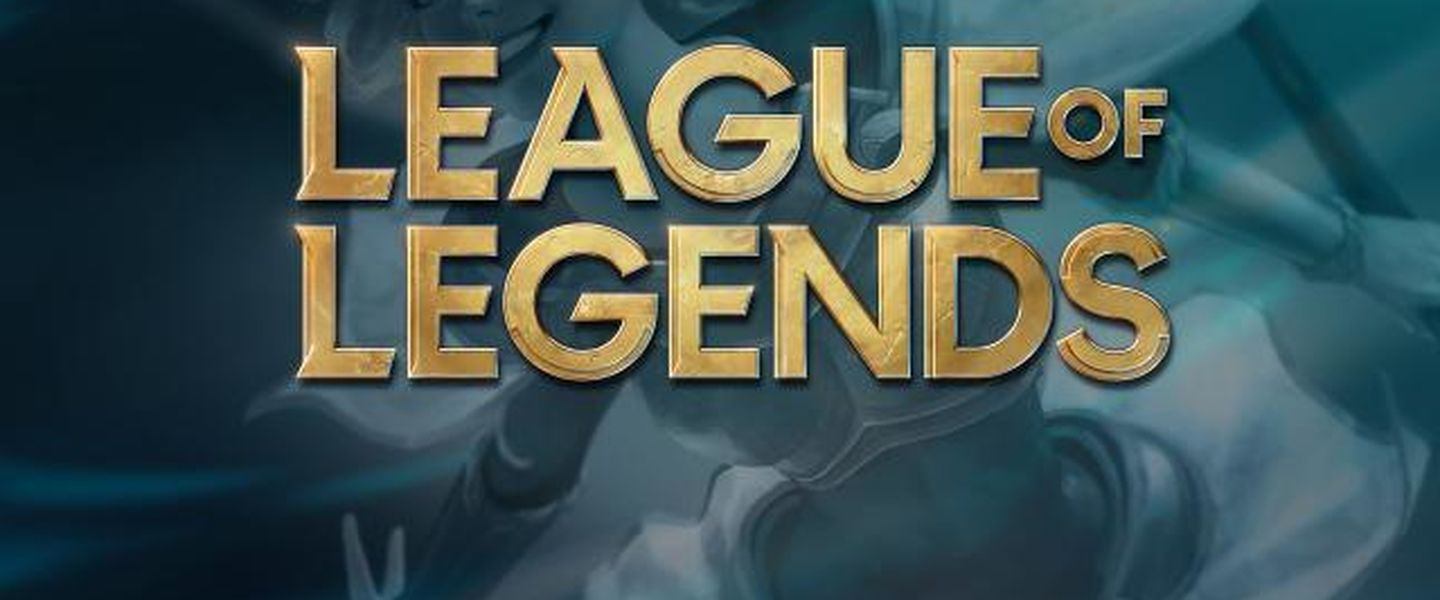
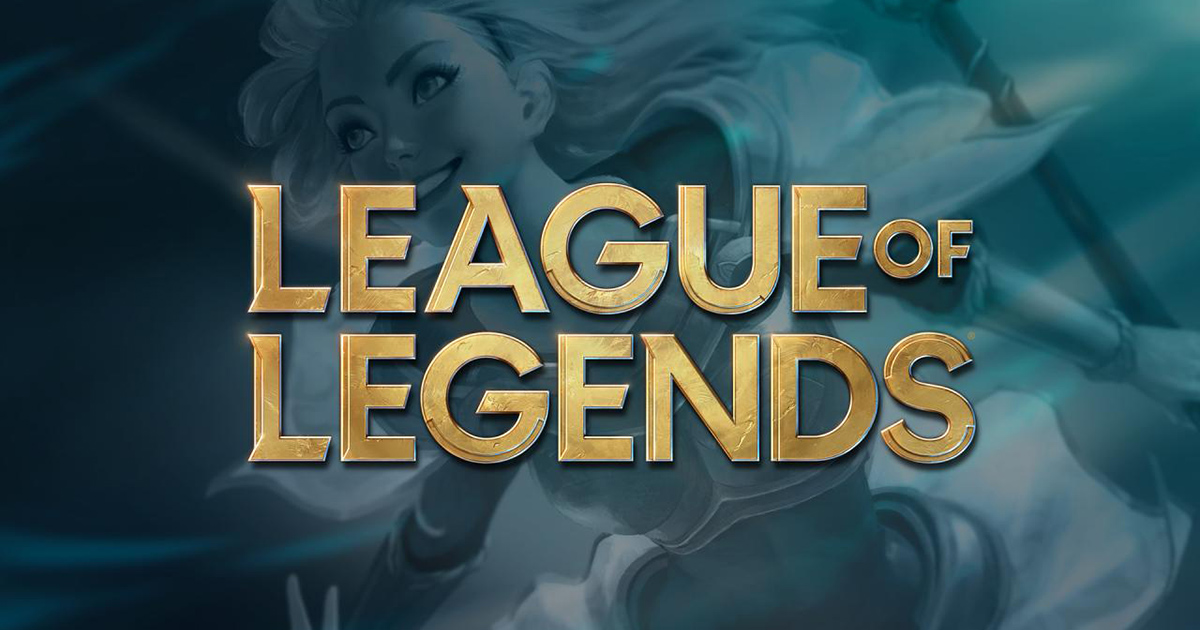
carrousel agregado

diff --git a/index.html b/index.html
@@ -1,88 +1,210 @@
 <!DOCTYPE html>
 <html lang="en">
-<head>
-    <meta charset="UTF-8">
-    <meta http-equiv="X-UA-Compatible" content="IE=edge">
-    <meta name="viewport" content="width=device-width, initial-scale=1.0">
-    <link href="https://cdn.jsdelivr.net/npm/bootstrap@5.1.3/dist/css/bootstrap.min.css" rel="stylesheet" integrity="sha384-1BmE4kWBq78iYhFldvKuhfTAU6auU8tT94WrHftjDbrCEXSU1oBoqyl2QvZ6jIW3" crossorigin="anonymous">
-    <link rel="stylesheet" href="style.css">
+  <head>
+    <meta charset="UTF-8" />
+    <meta http-equiv="X-UA-Compatible" content="IE=edge" />
+    <meta name="viewport" content="width=device-width, initial-scale=1.0" />
+    <link 
+      href="https://cdn.jsdelivr.net/npm/bootstrap@5.1.3/dist/css/bootstrap.min.css"
+      rel="stylesheet"
+      integrity="sha384-1BmE4kWBq78iYhFldvKuhfTAU6auU8tT94WrHftjDbrCEXSU1oBoqyl2QvZ6jIW3"
+      crossorigin="anonymous"
+    />
+    <link rel="stylesheet" href="style.css" />
     <title>Dos Reviews punto com</title>
-</head>
+  </head>
 
-<body>
-    <header class="header"> 
-        <div class="headerLogo">
-            <a href="/index.html"><img class="logo" src="images/logo.png" alt="joystick" ></a>
-        </div>
-        <div class="headerNav">
-            <nav>
-                <ul class="ulNav">
-                    <li class="headerLi"> <a href="index.html">Inicio</a> </li>
-                    <li class="headerLi"> <a href="reviews.html"> Reviews</a> </li>
-                    <li class="headerLi"> <a href="wallpapers.html">Wallpapers</a>  </li>
-                    <li class="headerLi"> <a href="sobre-nosotros.html">Sobre Nosotros </a>  </li>
-                    <li class="headerLi"> <a href="contacto.html"> Contacto</a> </li>
-                </ul> 
-            </nav>
-        </div>
+  <body>
+    <header class="header">
+      <div class="headerLogo">
+        <a href="/index.html"
+          ><img class="logo" src="images/logo.png" alt="joystick"
+        /></a>
+      </div>
+      <div class="headerNav">
+        <nav>
+          <ul class="ulNav">
+            <li class="headerLi"><a href="index.html">Inicio</a></li>
+            <li class="headerLi"><a href="reviews.html"> Reviews</a></li>
+            <li class="headerLi"><a href="wallpapers.html">Wallpapers</a></li>
+            <li class="headerLi">
+              <a href="sobre-nosotros.html">Sobre Nosotros </a>
+            </li>
+            <li class="headerLi"><a href="contacto.html"> Contacto</a></li>
+          </ul>
+        </nav>
+      </div>
     </header>
     <main>
-        <div class="main">
-            <div class="carru"> <!-- la idea es a futuro hacer un carrusel en el cual se muestren imagenes de juegos a modo de publicidad random-->
-                <div>
-                     <img class="imgMain"  src="images/godgowar/tapa.jfif" alt="god of war portada">
-                     <p>God Of War</p>
-                </div>
-                <div>
-                     <img class="imgMain"  src="images/mortalkombat/mortal.jpeg" alt="Mortal Kombat XI portada">
-                     <p>Mortal Kombat XI</p>
-                </div>    
-                <div>
-                     <img class="imgMain"  src="images/lol/leagueof.jpg" alt="league of legends portada">
-                     <p>League of Legends</p>
-                </div>
+      <div class="main">
+        <div
+          id="carouselExampleCaptions"
+          class="carousel slide"
+          data-bs-ride="carousel"
+        >
+          <div class="carousel-indicators">
+            <button
+              type="button"
+              data-bs-target="#carouselExampleCaptions"
+              data-bs-slide-to="0"
+              class="active"
+              aria-current="true"
+              aria-label="Slide 1"
+            ></button>
+            <button
+              type="button"
+              data-bs-target="#carouselExampleCaptions"
+              data-bs-slide-to="1"
+              aria-label="Slide 2"
+            ></button>
+            <button
+              type="button"
+              data-bs-target="#carouselExampleCaptions"
+              data-bs-slide-to="2"
+              aria-label="Slide 3"
+            ></button>
+          </div>
+          <div class="carousel-inner">
+            <div class="carousel-item active">
+              <img
+                src="images/godgowar/estaaaaaaa.jpg"
+                class="d-block w-100"
+                alt="god of war portada"
+              />
+              <div class="carousel-caption d-none d-md-block">
+                <h5>God of War</h5>
+                <p>Bonito juego</p>
+              </div>
             </div>
-        
-             <div class="recoAutor">
-                <h1>Recomendaciones del autor</h1>
-                    <div class="recoAutor2"> 
-                        <div class="recoAutor3">
-                            <h2>The Room - The Old Sins</h2>
-                            <img class="imgMain"  src="images/theroom-oldsins/tapa.png" alt="The Room OldSins portada">
-                            <p> The Room: Old Sins o The Room 4: Old Sins es un videojuego de rompecabezas desarrollado por Fireproof Games, y el cuarto juego de su serie, The Room.</p>
-                        </div>
-                        <div class="recoAutor3">
-                            <h2>Resident Evil VIII</h2>
-                            <img class="imgMain"  src="images/residentevil/header.jpg" alt="Resident Evil VIII portada">
-                            <p> Resident Evil Village es un videojuego shooter en primera persona perteneciente al género de los videojuegos de terror desarrollado y publicado por Capcom.</p>
-                        </div>
-                        <div class="recoAutor3">
-                            <h2>Destiny 2</h2>
-                            <img class="imgMain"  src="images/destiny2/capsule_616x353_spanish.jpg" alt="Destiny 2 portada">
-                            <p> Destiny 2 es una secuela directa del videojuego de acción en primera persona de Bungie distribuido por Activision </p>
-                        </div>
-                    </div>
-             </div>
+            <div class="carousel-item">
+              <img
+                src="images/mortalkombat/usar.jpg"
+                class="d-block w-100"
+                alt="Mortal Kombat XI portada"
+              />
+              <div class="carousel-caption d-none d-md-block">
+                <h5>Mortal Kombat XI</h5>
+                <p>Lindo y bonito - Peleas</p>
+              </div>
+            </div>
+            <div class="carousel-item">
+              <img
+                src="images/lol/leagueof.jpg"
+                class="d-block w-100"
+                alt="league of legends portada"
+              />
+              <div class="carousel-caption d-none d-md-block">
+                <h5>League of Legends</h5>
+                <p>Juego de mierda</p>
+              </div>
+            </div>
+          </div>
+          <button
+            class="carousel-control-prev"
+            type="button"
+            data-bs-target="#carouselExampleCaptions"
+            data-bs-slide="prev"
+          >
+            <span class="carousel-control-prev-icon" aria-hidden="true"></span>
+            <span class="visually-hidden">Previous</span>
+          </button>
+          <button
+            class="carousel-control-next"
+            type="button"
+            data-bs-target="#carouselExampleCaptions"
+            data-bs-slide="next"
+          >
+            <span class="carousel-control-next-icon" aria-hidden="true"></span>
+            <span class="visually-hidden">Next</span>
+          </button>
         </div>
-        <script src="https://cdn.jsdelivr.net/npm/bootstrap@5.1.3/dist/js/bootstrap.bundle.min.js" integrity="sha384-ka7Sk0Gln4gmtz2MlQnikT1wXgYsOg+OMhuP+IlRH9sENBO0LRn5q+8nbTov4+1p" crossorigin="anonymous"></script>
+
+        <div class="recoAutor">
+          <h1>Recomendaciones del autor</h1>
+          <div class="recoAutor2">
+            <div class="recoAutor3">
+              <h2>The Room - The Old Sins</h2>
+              <img
+                class="imgMain"
+                src="images/theroom-oldsins/tapa.png"
+                alt="The Room OldSins portada"
+              />
+              <p>
+                The Room: Old Sins o The Room 4: Old Sins es un videojuego de
+                rompecabezas desarrollado por Fireproof Games, y el cuarto juego
+                de su serie, The Room.
+              </p>
+            </div>
+            <div class="recoAutor3">
+              <h2>Resident Evil VIII</h2>
+              <img
+                class="imgMain"
+                src="images/residentevil/header.jpg"
+                alt="Resident Evil VIII portada"
+              />
+              <p>
+                Resident Evil Village es un videojuego shooter en primera
+                persona perteneciente al género de los videojuegos de terror
+                desarrollado y publicado por Capcom.
+              </p>
+            </div>
+            <div class="recoAutor3">
+              <h2>Destiny 2</h2>
+              <img
+                class="imgMain"
+                src="images/destiny2/capsule_616x353_spanish.jpg"
+                alt="Destiny 2 portada"
+              />
+              <p>
+                Destiny 2 es una secuela directa del videojuego de acción en
+                primera persona de Bungie distribuido por Activision
+              </p>
+            </div>
+          </div>
+        </div>
+      </div>
+      <script
+        src="https://cdn.jsdelivr.net/npm/bootstrap@5.1.3/dist/js/bootstrap.bundle.min.js"
+        integrity="sha384-ka7Sk0Gln4gmtz2MlQnikT1wXgYsOg+OMhuP+IlRH9sENBO0LRn5q+8nbTov4+1p"
+        crossorigin="anonymous"
+      ></script>
     </main>
-    <footer> 
-        <div class="footer">
-            <div class="footerInfo">
-                <p>Dos Reviews punto con ® </p>
-                <p>Todos los derechos reservados</p>
-            </div>    
-
-            <div class="redes">
-                <ul>
-                    <li class="footerLi"><a href="https://www.whatsapp.com/"><img src="https://img.icons8.com/ios/50/000000/whatsapp--v1.png"/></a></li>
-                    <li class="footerLi"><a href="https://www.instagram.com/"><img src="https://img.icons8.com/ios/50/000000/instagram-new--v1.png"/></a></li>
-                    <li class="footerLi"><a href="https://www.youtube.com/"><img src="https://img.icons8.com/ios/50/000000/youtube-play--v1.png"/></a></li>
-                    <li class="footerLi"><a href="https://es-la.facebook.com/"><img src="https://img.icons8.com/ios/50/000000/facebook--v1.png"/></a></li>
-               </ul>
-            </div>
+    <footer>
+      <div class="footer">
+        <div class="footerInfo">
+          <p>Dos Reviews punto con ®</p>
+          <p>Todos los derechos reservados</p>
         </div>
-    </footer>
-</body>
 
+        <div class="redes">
+          <ul>
+            <li class="footerLi">
+              <a href="https://www.whatsapp.com/"
+                ><img
+                  src="https://img.icons8.com/ios/50/000000/whatsapp--v1.png"
+              /></a>
+            </li>
+            <li class="footerLi">
+              <a href="https://www.instagram.com/"
+                ><img
+                  src="https://img.icons8.com/ios/50/000000/instagram-new--v1.png"
+              /></a>
+            </li>
+            <li class="footerLi">
+              <a href="https://www.youtube.com/"
+                ><img
+                  src="https://img.icons8.com/ios/50/000000/youtube-play--v1.png"
+              /></a>
+            </li>
+            <li class="footerLi">
+              <a href="https://es-la.facebook.com/"
+                ><img
+                  src="https://img.icons8.com/ios/50/000000/facebook--v1.png"
+              /></a>
+            </li>
+          </ul>
+        </div>
+      </div>
+    </footer>
+  </body>
 </html>

diff --git a/style.css b/style.css
@@ -57,19 +57,19 @@
 .imgMain{
     height: 300px;
     width: 250px;
+    
 }
 
 .main{
     text-align: center;
     padding: 100px;
     border: 2px solid black;
-    background-color: rgba(139, 77, 200, 0.274);
+    background-color: rgba(3, 2, 3, 0.274)!important;
     width: 100%;
 }
 
 .recoAutor{
     margin: 30px;
-    
 }
 
 .recoAutor2{
@@ -82,7 +82,8 @@
 }
 .recoAutor3{
     width: 450px;
-    height: 450px;
+    height: 500px;
+    text-align: center;
 }
 
 .carru {
